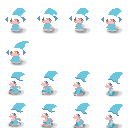
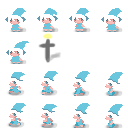
added tomb image. Player now don't disappear when dead.

diff --git a/js/entities/player.js b/js/entities/player.js
@@ -98,135 +98,147 @@ game.PlayerAgent.Simple = game.PlayerAgent.base.extend
         this.autoMove = game.data.useAutomove;
         this.footPos = player.getRenderPos(0.5, 0.5);
 
-        if(typeof this.targetPos !== "undefined")
+        if(game.Mobs.checkAlive(player) === true)
         {
-            if(this.targetPos.distance(this.footPos) > 1.5)
+            if(typeof this.targetPos !== "undefined")
             {
-                player.body.vel = this.targetPos.clone().sub(this.footPos).normalize().scale(player.data.getMovingSpeed() * me.timer.tick);
-    
-                this.isMoving = true;
-
-                // Reset the anim counter
-                this.idleCount = this.idleFramePos;
-            }
-            else
-            {
-                this.targetPos = undefined;
-
-                this.isMoving = false;
-            }
-        }
-        else if(game.Mobs.checkAlive(this.targetMob) == true)
-        {
-            // we need move to goin the range of our current weapon
-            if(player.data.currentWeapon.isInRange(player, this.targetMob) == false)
-            {
-                player.body.vel = this.targetMob.getRenderPos(0.5, 0.5).clone().sub(this.footPos).normalize().scale(player.data.getMovingSpeed() * me.timer.tick);
-
-                this.isMoving = true;
-
-                // Reset the anim counter
-                this.idleCount = this.idleFrameMob;
-            }
-            // and then we don't move anymore.
-            else
-            {
-                this.targetMob = undefined;
-
-                this.isMoving = false;
-            }
-        }
-        else
-        {
-            // We lose the target.
-
-            this.targetPos = undefined;
-            this.targetMob = undefined;
-            this.isMoving = false;
-        }
-
-        if(this.isMoving === true)
-        {
-            // Fix our face direction when moving
-            if(player.body.vel.x > 0)
-            {
-                player.renderable.flipX(true);
-            }
-            else
-            {
-                player.renderable.flipX(false);
-            }
-
-            if(!player.renderable.isCurrentAnimation("move"))
-            {
-                player.renderable.setCurrentAnimation("move");
-            }
-        }
-        else
-        {
-            // Count the frames
-            if(this.idleCount > 0)
-            {
-                this.idleCount --;
-
-                // Also smooth the speed
-                player.body.vel.scale(this.speedFriction);
-            }
-            else
-            {
-                player.body.vel.set(0, 0);
-
-                if(!player.renderable.isCurrentAnimation("idle"))
+                if(this.targetPos.distance(this.footPos) > 1.5)
                 {
-                    player.renderable.setCurrentAnimation("idle");
+                    player.body.vel = this.targetPos.clone().sub(this.footPos).normalize().scale(player.data.getMovingSpeed() * me.timer.tick);
+        
+                    this.isMoving = true;
+
+                    // Reset the anim counter
+                    this.idleCount = this.idleFramePos;
+                }
+                else
+                {
+                    this.targetPos = undefined;
+
+                    this.isMoving = false;
                 }
             }
-
-            if(this.autoMove === true)
+            else if(game.Mobs.checkAlive(this.targetMob) == true)
             {
-                if(player.data.currentWeapon)
+                // we need move to goin the range of our current weapon
+                if(player.data.currentWeapon.isInRange(player, this.targetMob) == false)
                 {
-                    if(typeof (targetList = player.data.currentWeapon.grabTargets(player)) !== "undefined")
+                    player.body.vel = this.targetMob.getRenderPos(0.5, 0.5).clone().sub(this.footPos).normalize().scale(player.data.getMovingSpeed() * me.timer.tick);
+
+                    this.isMoving = true;
+
+                    // Reset the anim counter
+                    this.idleCount = this.idleFrameMob;
+                }
+                // and then we don't move anymore.
+                else
+                {
+                    this.targetMob = undefined;
+
+                    this.isMoving = false;
+                }
+            }
+            else
+            {
+                // We lose the target.
+
+                this.targetPos = undefined;
+                this.targetMob = undefined;
+                this.isMoving = false;
+            }
+
+            if(this.isMoving === true)
+            {
+                // Fix our face direction when moving
+                if(player.body.vel.x > 0)
+                {
+                    player.renderable.flipX(true);
+                }
+                else
+                {
+                    player.renderable.flipX(false);
+                }
+
+                if(!player.renderable.isCurrentAnimation("move"))
+                {
+                    player.renderable.setCurrentAnimation("move");
+                }
+            }
+            else
+            {
+                // Count the frames
+                if(this.idleCount > 0)
+                {
+                    this.idleCount --;
+
+                    // Also smooth the speed
+                    player.body.vel.scale(this.speedFriction);
+                }
+                else
+                {
+                    player.body.vel.set(0, 0);
+
+                    if(!player.renderable.isCurrentAnimation("idle"))
                     {
-                        this.setTargetMob(player, targetList[0]);
+                        player.renderable.setCurrentAnimation("idle");
+                    }
+                }
+
+                if(this.autoMove === true)
+                {
+                    if(player.data.currentWeapon)
+                    {
+                        if(typeof (targetList = player.data.currentWeapon.grabTargets(player)) !== "undefined")
+                        {
+                            this.setTargetMob(player, targetList[0]);
+                        }
                     }
                 }
             }
-        }
 
-        // Attack !
-        // Todo: attack single time for multi targets, they should add same amount of weapon gauge (basically)
-        if(player.doAttack(dt) === true)
-        {
-            if(typeof (targets = player.data.currentWeapon.grabTargets(player)) !== "undefined")
+            // Attack !
+            // Todo: attack single time for multi targets, they should add same amount of weapon gauge (basically)
+            if(player.doAttack(dt) === true)
             {
-                for(var target of targets.values())
+                if(typeof (targets = player.data.currentWeapon.grabTargets(player)) !== "undefined")
                 {
-                    if(player.data.currentWeapon.isInRange(player, target))
+                    for(var target of targets.values())
                     {
-                        if(player.data.currentMana > player.data.currentWeapon.manaCost)
+                        if(player.data.currentWeapon.isInRange(player, target))
                         {
-                            player.data.currentMana -= player.data.currentWeapon.manaCost;
-                            player.data.currentWeapon.attack(player, target);
+                            if(player.data.currentMana > player.data.currentWeapon.manaCost)
+                            {
+                                player.data.currentMana -= player.data.currentWeapon.manaCost;
+                                player.data.currentWeapon.attack(player, target);
+                            }
+                        }
+                    }
+                }
+            }
+
+            // Use any spells available
+            for(let spell in player.data.spells)
+            {
+                if(player.data.spells.hasOwnProperty(spell))
+                {
+                    if(this.isMoving == false)
+                    {
+                        if(player.data.spells[spell].available)
+                        {
+                            player.data.cast(player, null, player.data.spells[spell])
                         }
                     }
                 }
             }
         }
-
-        // Use any spells available
-        for(let spell in player.data.spells)
+        // YOU DIED !
+        else
         {
-            if(player.data.spells.hasOwnProperty(spell))
-            {
-                if(this.isMoving == false)
-                {
-                    if(player.data.spells[spell].available)
-                    {
-                        player.data.cast(player, null, player.data.spells[spell])
-                    }
-                }
-            }
+            this.isMoving = false;
+            player.body.vel.set(0, 0);
+            player.renderable.flipX(false);
+
+            player.renderable.setCurrentAnimation("dead");
         }
     },
 
@@ -263,6 +275,7 @@ game.PlayerMobs.test = game.PlayerMobs.base.extend
         //Animations
         this.renderable.addAnimation("idle", [0, 1, 2, 3, 4]);
         this.renderable.addAnimation("move", [8, 9, 10, 11, 12, 13, 14, 15]);
+        this.renderable.addAnimation("dead", [5]);
 
         this.renderable.setCurrentAnimation("idle");
 

diff --git a/js/entities/spells.js b/js/entities/spells.js
@@ -720,6 +720,7 @@ game.Spell.ChibiFairyLampSpecial = game.Spell.base.extend
         // this.setScale(2, 2);
 
         this.power = settings.power || 10;
+        this.isPlayer = this.target.data.isPlayer;
 
         this.timer = 600;
         this.count = 2;
@@ -727,11 +728,11 @@ game.Spell.ChibiFairyLampSpecial = game.Spell.base.extend
 
     updateSpell: function(dt) 
     {
-        if(typeof this.target === "undefined")
-        {
-            this.timer = 599;
-            this.count = 0;
-        }
+        // if(typeof this.target === "undefined")
+        // {
+        //     this.timer = 599;
+        //     this.count = 0;
+        // }
 
         if(this.timer == 600)
         {
@@ -744,7 +745,7 @@ game.Spell.ChibiFairyLampSpecial = game.Spell.base.extend
                 {
                     return (a.getRenderPos(0.5, 0.5).distance(currentPos) < 64);
                 },
-                isPlayer: this.target.data.isPlayer,
+                isPlayer: this.isPlayer,
             }).slice(0, 3);
 
             for(var i = 0; i < targetList.length; i++)

diff --git a/js/entities/mobs.js b/js/entities/mobs.js
@@ -718,8 +718,6 @@ game.Mobs.base = game.Moveable.extend(
     {
         this.data.die({source: source, damage: damage});
 
-        me.game.world.removeChild(this.HPBar);
-
         this.body.collisionType = me.collision.types.NO_OBJECT;
 
         if(this.data.isPlayer === true)
@@ -729,9 +727,10 @@ game.Mobs.base = game.Moveable.extend(
         }
         else
         {
+            me.game.world.removeChild(this.HPBar);
             game.units.removeEnemy(this);
+            me.game.world.removeChild(this);
         }
-        me.game.world.removeChild(this);
     },
 
     // Listener interfaces
@@ -742,6 +741,11 @@ game.Mobs.base = game.Moveable.extend(
     // When this listener was removed from the mob by source
     onRemoved: function(mob, source) {},
 });
+
+game.Mobs.checkExist = function(target)
+{
+    return ((typeof target !== "undefined") && (typeof target.renderable !== "undefined") && (typeof target.body !== "undefined"));
+};
 
 game.Mobs.checkAlive = function(target)
 {

diff --git a/js/entities/entities.js b/js/entities/entities.js
@@ -47,7 +47,7 @@ game.Utils.TestHPBarRenderable = me.Renderable.extend
         
         // HP
         renderer.setColor('#ff4c4c');
-        renderer.fillRect(0, 0, this.width * this.HPBarParent.percentage, this.height);
+        renderer.fillRect(0, 0, this.width * Math.max(this.HPBarParent.percentage, 0), this.height);
 
         renderer.setColor(color);
     }

diff --git a/js/entities/players/forestElfAcademic.js b/js/entities/players/forestElfAcademic.js
@@ -22,6 +22,7 @@ game.PlayerMobs.ForestElfAcademic = game.PlayerMobs.base.extend
         // Animations
         this.renderable.addAnimation("idle", [0, 1, 2, 3, 4]);
         this.renderable.addAnimation("move", [8, 9, 10, 11, 12, 13, 14, 15]);
+        this.renderable.addAnimation("dead", [5]);
 
         this.renderable.setCurrentAnimation("idle");
 

diff --git a/js/entities/players/forestElfGuardian.js b/js/entities/players/forestElfGuardian.js
@@ -22,6 +22,7 @@ game.PlayerMobs.ForestElfGuardian = game.PlayerMobs.base.extend
         // Animations
         this.renderable.addAnimation("idle", [0, 1, 2, 3, 4]);
         this.renderable.addAnimation("move", [8, 9, 10, 11, 12, 13, 14, 15]);
+        this.renderable.addAnimation("dead", [5]);
 
         this.renderable.setCurrentAnimation("idle");
 

diff --git a/js/entities/players/humanMageIceFire.js b/js/entities/players/humanMageIceFire.js
@@ -22,6 +22,7 @@ game.PlayerMobs.HumanMageIceFire = game.PlayerMobs.base.extend
         // Animations
         this.renderable.addAnimation("idle", [0, 1, 2, 3, 4]);
         this.renderable.addAnimation("move", [8, 9, 10, 11, 12, 13, 14, 15]);
+        this.renderable.addAnimation("dead", [5]);
 
         this.renderable.setCurrentAnimation("idle");
 

diff --git a/js/entities/players/floraFairy.js b/js/entities/players/floraFairy.js
@@ -22,6 +22,7 @@ game.PlayerMobs.FloraFairy = game.PlayerMobs.base.extend
         // Animations
         this.renderable.addAnimation("idle", [0, 1, 2, 3, 4]);
         this.renderable.addAnimation("move", [0, 1, 2, 3, 4]);
+        this.renderable.addAnimation("dead", [5]);
 
         this.renderable.setCurrentAnimation("idle");
 

diff --git a/js/lib/dataBackend.js b/js/lib/dataBackend.js
@@ -839,6 +839,7 @@ game.dataBackend.Mob = me.Object.extend
     } = {})
     {
         this.beingAttack = 0;
+        this.alive = false;
     },
 });
 
